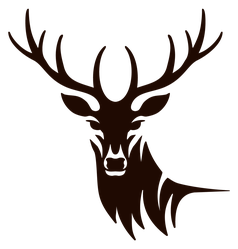
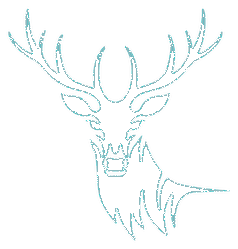
added deer reference

Changed region(s): [[0.0294, 0.0281, 0.9706, 0.9839]]

diff --git a/scss/style.scss b/scss/style.scss
@@ -32,6 +32,25 @@ main {
     z-index: 950;
 }
 
+.ico {
+    position: fixed;
+    bottom: 10px;
+    right: 10px;
+    
+    img {
+        width: 100px;
+        transition: opacity 0.5s ease-out;
+
+        &:hover {
+            opacity: 0.4;
+        }
+
+        &:active {
+            opacity: 0.2;
+        }
+    }
+}
+
 nav{
     font-size: 30px;
     width: 100%;
@@ -79,6 +98,12 @@ nav{
             li{
                 padding: 10px 0;
             }
+        }
+    }
+
+    .ico {     
+        img {
+            width: 50px;
         }
     }
 }

diff --git a/scss/style.css b/scss/style.css
@@ -303,6 +303,26 @@ main {
   z-index: 950;
 }
 
+.ico {
+  position: fixed;
+  bottom: 10px;
+  right: 10px;
+}
+
+.ico img {
+  width: 100px;
+  -webkit-transition: opacity 0.5s ease-out;
+  transition: opacity 0.5s ease-out;
+}
+
+.ico img:hover {
+  opacity: 0.4;
+}
+
+.ico img:active {
+  opacity: 0.2;
+}
+
 nav {
   font-size: 30px;
   width: 100%;
@@ -351,6 +371,9 @@ nav ul li a:active {
   }
   nav ul li {
     padding: 10px 0;
+  }
+  .ico img {
+    width: 50px;
   }
 }
 /*# sourceMappingURL=style.css.map */

diff --git a/index.html b/index.html
@@ -207,6 +207,7 @@
 
             </table>
         </div>
+        <div class="ico"><a href="#home"><img src="./img/deer.png" alt="deer-arrow"/></a></div>
     </main>
     <canvas id="canvas"></canvas>
 
